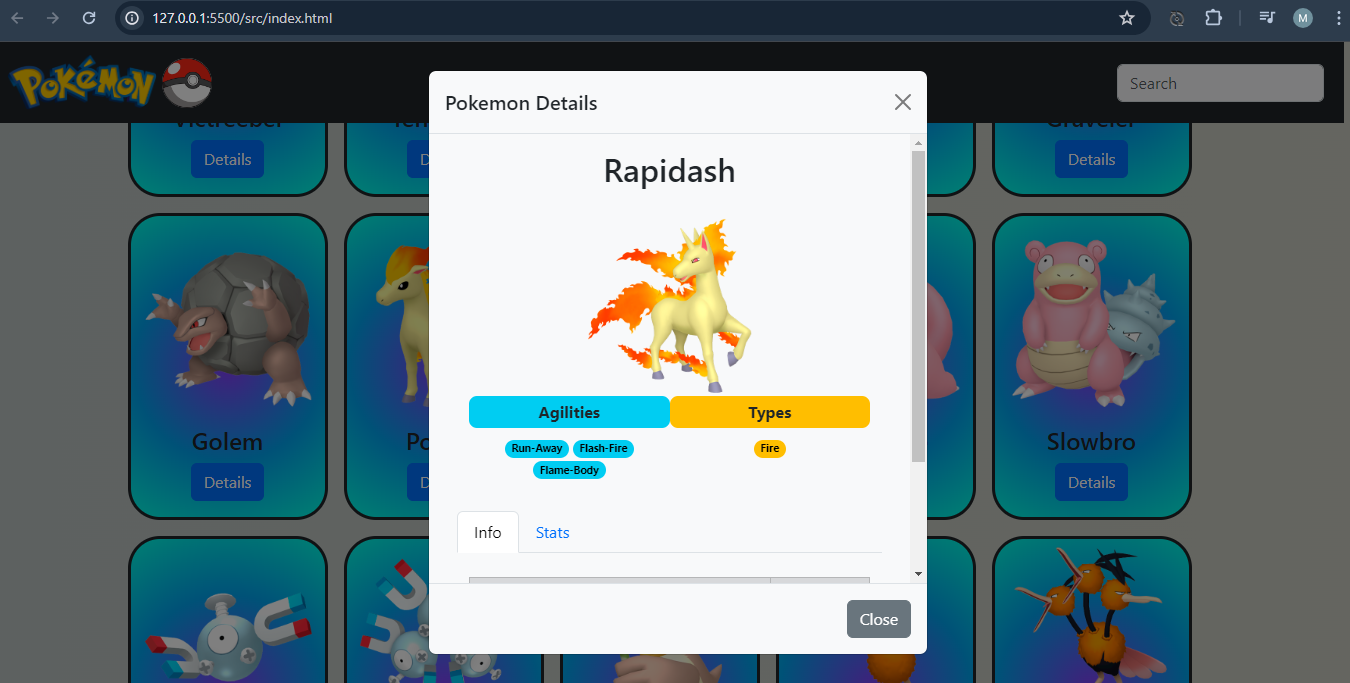
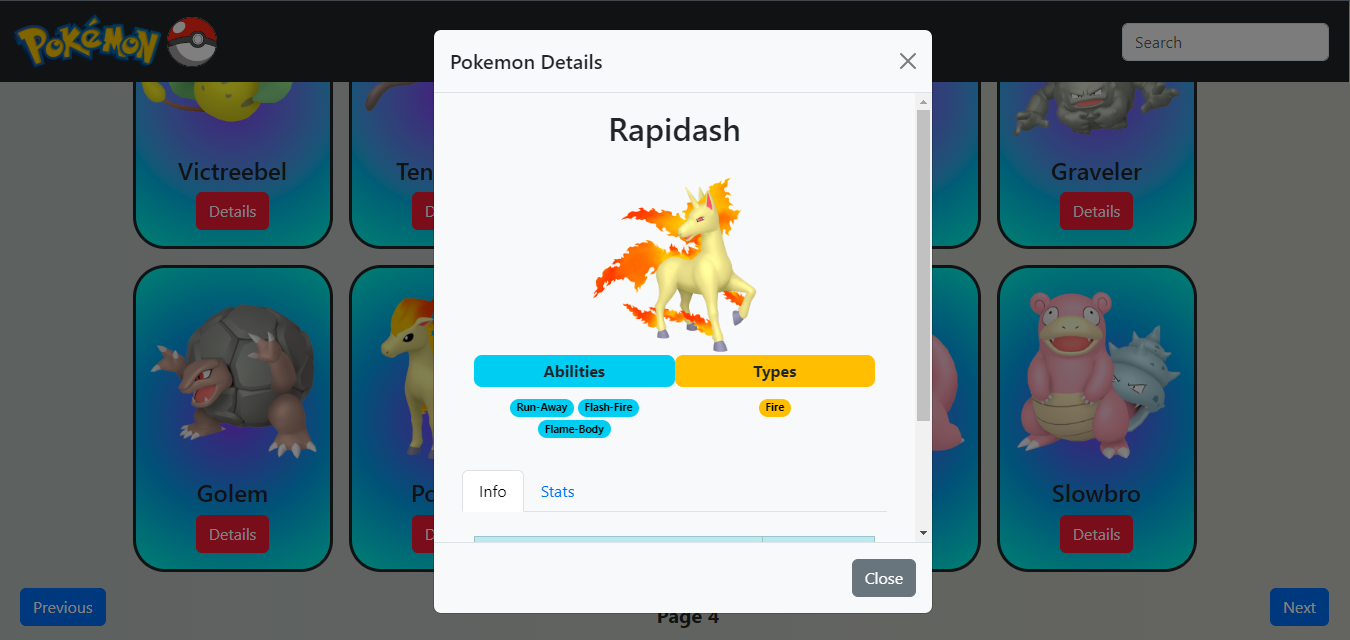
Update 27/08/2024

diff --git a/src/script.js b/src/script.js
@@ -1,38 +1,70 @@
-// Fetch Pokémon list
-$.ajax({
-	url: "https://pokeapi.co/api/v2/pokemon?limit=100&offset=0",
-	method: "GET",
-	dataType: "json",
-})
-	.done((response) => {
-		let text = "";
-		$.each(response.results, (key, val) => {
-			text += /*html*/ `
-                <div class="card m-2 text-center border border-3 border-dark rounded-5">
-                    <img
-                        src="https://raw.githubusercontent.com/PokeAPI/sprites/master/sprites/pokemon/other/home/${
-													key + 1
-												}.png"
-                        class="card-img-top"
-                        alt="${val.name}">
-                    <div class="card-body text-capitalize">
-                        <h4 id="namePoke">${val.name}</h4>
-                        <button
-                            type="button"
-                            class="btn btn-primary"
-                            data-bs-toggle="modal"
-                            data-bs-target="#staticBackdrop"
-                            onclick="getPokemonDetails('${val.url}')">
-                            Details
-                        </button>
-                    </div>
-                </div>`;
-		});
-		$("#pokemonCards").html(text);
+let currentPage = 1;
+const limit = 20; // Jumlah Pokémon per halaman
+
+// Function to fetch Pokémon list with pagination
+function fetchPokemon(page) {
+	const offset = (page - 1) * limit;
+	$.ajax({
+		url: `https://pokeapi.co/api/v2/pokemon?limit=${limit}&offset=${offset}`,
+		method: "GET",
+		dataType: "json",
 	})
-	.fail((err) => {
-		console.error("Error fetching Pokémon list:", err);
-	});
+		.done((response) => {
+			let text = "";
+			$.each(response.results, (key, val) => {
+				text += /*html*/ `
+                    <div class="card m-2 text-center border border-3 border-dark rounded-5">
+                        <img
+                            src="https://raw.githubusercontent.com/PokeAPI/sprites/master/sprites/pokemon/other/home/${
+															offset + key + 1
+														}.png"
+                            class="card-img-top"
+                            alt="${val.name}">
+                        <div class="card-body text-capitalize">
+                            <h4 id="namePoke">${val.name}</h4>
+                            <button
+                                type="button"
+                                class="btn btn-danger"
+                                data-bs-toggle="modal"
+                                data-bs-target="#staticBackdrop"
+                                onclick="getPokemonDetails('${val.url}')">
+                                Details
+                            </button>
+                        </div>
+                    </div>`;
+			});
+			$("#pokemonCards").html(text);
+
+			// Update pagination controls
+			$("#pagination").html(/*html*/ `
+                <button class="btn btn-primary ms-2 mb-3" onclick="prevPage()" ${
+									currentPage === 1 ? "disabled" : ""
+								}>Previous</button>
+                <span class="fw-bold fs-5"> Page ${currentPage} </span>
+                <button class="btn btn-primary me-2 mb-3" onclick="nextPage()">Next</button>
+            `);
+		})
+		.fail((err) => {
+			console.error("Error fetching Pokémon list: ", err);
+		});
+}
+
+// Function for "Next" button
+function nextPage() {
+	currentPage++;
+	fetchPokemon(currentPage);
+}
+
+// Function for "Previous" button
+function prevPage() {
+	if (currentPage > 1) {
+		currentPage--;
+		fetchPokemon(currentPage);
+	}
+}
+
+// Initial fetch
+fetchPokemon(currentPage);
 
 // Fetch Pokémon details for modal
 function getPokemonDetails(url) {
@@ -70,7 +102,7 @@ function getPokemonDetails(url) {
                                 <td class="fw-bold">${stat.stat.name}</td>
                                 <td>
                                     <div class="progress" style="height: 20px;">
-                                        <div class="progress-bar bg-danger" role="progressbar" style="width: ${
+                                        <div class="progress-bar bg-primary" role="progressbar" style="width: ${
 																					(stat.base_stat / maxStat) * 100
 																				}%">
                                             ${stat.base_stat}
@@ -84,7 +116,9 @@ function getPokemonDetails(url) {
 			let text = /*html*/ `
                 <div class="container text-center text-capitalize">
                     <h2>${response.name}</h2>
-                    <img src="${response.sprites.other.home.front_default}" width="200px">
+                    <img src="${
+											response.sprites.other.home.front_default
+										}" width="200px">
                     
                     <div class="container m-auto">    
                         <div class="row m-auto fw-bold">
@@ -117,9 +151,21 @@ function getPokemonDetails(url) {
                         <div class="tab-pane container active" id="info">
                             <table class="table table-striped table-hover table-bordered table-info">
                                 <tbody>
-                                    <tr><td class="fw-bold">Height</td><td>${response.height}</td></tr>
-                                    <tr><td class="fw-bold">Weight</td><td>${response.weight}</td></tr>
-                                    <tr><td class="fw-bold">Base Experience</td><td>${response.base_experience}</td></tr>
+                                    <tr><td class="fw-bold">Height</td><td><span class="badge ${
+																			response.height > 50
+																				? "bg-danger"
+																				: "bg-success"
+																		}">${response.height}</td></tr>
+                                    <tr><td class="fw-bold">Weight</td><td><span class="badge ${
+																			response.weight > 500
+																				? "bg-danger"
+																				: "bg-success"
+																		}">${response.weight}</td></tr>
+                                    <tr><td class="fw-bold">Base Experience</td><td><span class="badge ${
+																			response.base_experience > 200
+																				? "bg-danger"
+																				: "bg-success"
+																		}">${response.base_experience}</td></tr>
                                 </tbody>
                             </table>
                         </div>

diff --git a/src/index.html b/src/index.html
@@ -48,6 +48,13 @@
 			<div id="pokemonCards" class="d-flex flex-wrap m-2"></div>
 		</div>
 
+		<!-- Pagination -->
+		<div class="container-fluid">
+			<div
+				id="pagination"
+				class="d-flex flex-wrap justify-content-between align-items-center"></div>
+		</div>
+
 		<!-- Modal -->
 		<div
 			class="modal fade"
